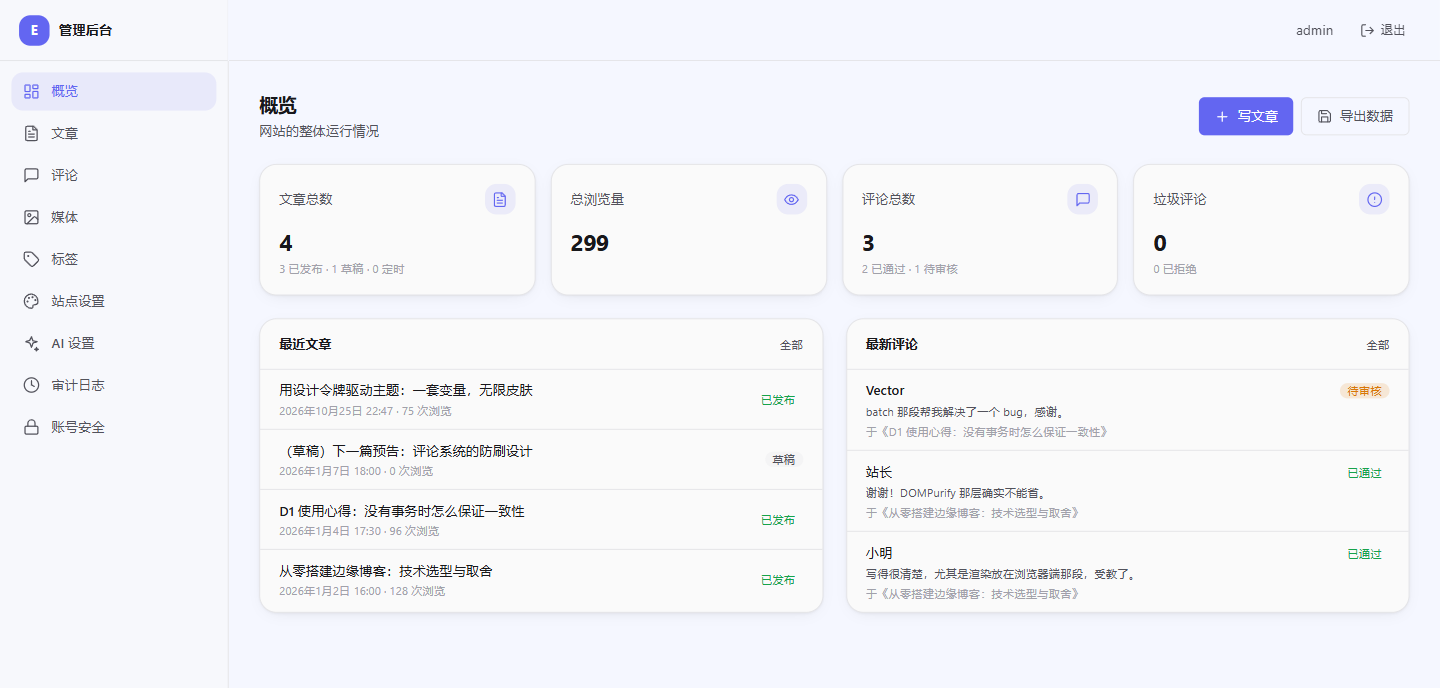
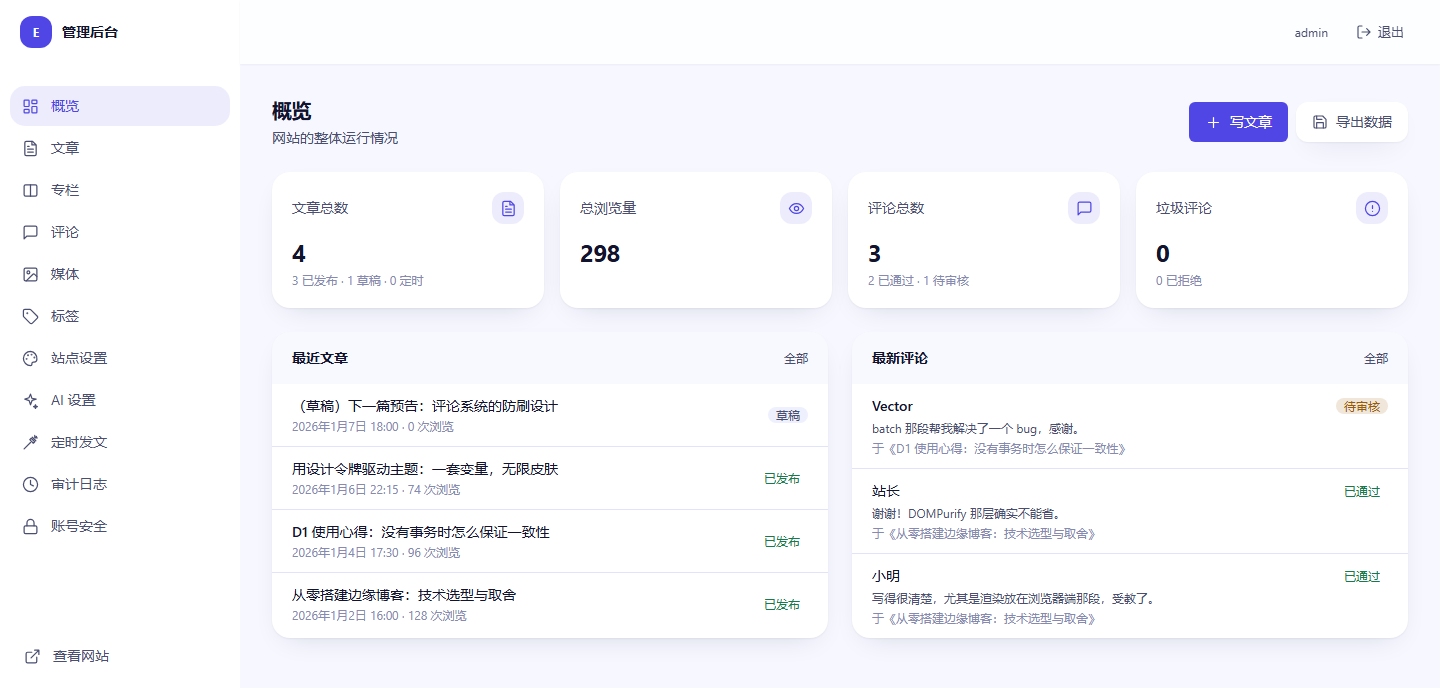
docs: 重写部署文档为一键部署，更新后台截图
- README 部署章节改为 Deploy to Cloudflare 按钮流程，保留命令行部署与升级说明
- 新增 scripts/db-bootstrap.mjs：空库自动建表并写入种子数据，已有库跳过；接入 npm run deploy
- package.json 增加 cloudflare 元数据（按钮展示、JWT_SECRET 填写说明）
- .dev.vars.example 只保留真正的 Secret，本地覆盖项改为注释，避免污染线上配置
- wrangler.toml 的 SITE_URL 默认留空，跟随访问域名，方便他人一键部署
- 后台截图更新：概览 / 定时发文 / 站点设置 / AI 设置（含请求超时）
- 默认站点描述由 Cloudflare Pages 更正为 Workers

diff --git a/shared/settings-defaults.ts b/shared/settings-defaults.ts
@@ -27,7 +27,7 @@ export const DEFAULT_SETTINGS: PublicSettings = {
   site: {
     name: 'Edge Blog',
     tagline: '在边缘写作，与世界相连',
-    description: '一个部署在 Cloudflare Pages 上的现代化动态博客，React + Hono + D1。',
+    description: '一个部署在 Cloudflare Workers 上的现代化动态博客，React + Hono + D1。',
     logo: { type: 'text', text: 'Edge', imageUrl: '' },
     aboutLogo: '',
     aboutText: '',

diff --git a/README.md b/README.md
@@ -7,10 +7,13 @@
 [![React](https://img.shields.io/badge/React-18-61DAFB?logo=react&logoColor=black)](https://react.dev/)
 [![TypeScript](https://img.shields.io/badge/TypeScript-5-3178C6?logo=typescript&logoColor=white)](https://www.typescriptlang.org/)
 
+[![Deploy to Cloudflare](https://deploy.workers.cloudflare.com/button)](https://deploy.workers.cloudflare.com/?url=https://github.com/nyoungo/EdgeBlog)
+
 - 在线演示：<https://www.068800.xyz>
+- 一键部署：点上面的按钮，Cloudflare 会自动创建 D1 / R2 / KV / Workers AI 并构建上线
 - 非静态生成：页面是 SPA，数据通过 Worker 提供的 API 实时读取
 - 无需服务器：D1 存数据，R2 存媒体，KV 做缓存与限流
-- 定时写作：按排期自动生成整篇文章与封面图，并保存为草稿或直接发布
+- 定时发文：按排期自动生成整篇文章与封面图，并保存为草稿或直接发布
 
 ```
 React + TypeScript + Vite  ·  React Router  ·  TailwindCSS + CSS 变量
@@ -26,13 +29,17 @@ JWT + HttpOnly Cookie      ·  PBKDF2-SHA256        ·  DOMPurify
 | :---: | :---: | :---: |
 | [![首页](docs/screenshots/home.jpg)](docs/screenshots/home.jpg) | [![通栏 Hero](docs/screenshots/home-hero-fullwidth.jpg)](docs/screenshots/home-hero-fullwidth.jpg) | [![全屏 Hero](docs/screenshots/home-hero-fullscreen.jpg)](docs/screenshots/home-hero-fullscreen.jpg) |
 
-> 同一套代码的三种排版：首页模块、Hero 宽度与背景、卡片样式均在后台「外观设置」中调整。
+> 同一套代码的三种排版：首页模块、Hero 宽度与背景、卡片样式均在后台「站点设置」中调整。
 
 ### 后台
 
-| 概览 | 站点设置 | AI 设置 |
-| :---: | :---: | :---: |
-| [![后台概览](docs/screenshots/admin-dashboard.png)](docs/screenshots/admin-dashboard.png) | [![站点设置](docs/screenshots/admin-appearance.png)](docs/screenshots/admin-appearance.png) | [![AI 设置](docs/screenshots/admin-ai.png)](docs/screenshots/admin-ai.png) |
+| 概览 | 定时发文 |
+| :---: | :---: |
+| [![后台概览](docs/screenshots/admin-dashboard.png)](docs/screenshots/admin-dashboard.png) | [![定时发文](docs/screenshots/admin-automation.png)](docs/screenshots/admin-automation.png) |
+
+| 站点设置 | AI 设置 |
+| :---: | :---: |
+| [![站点设置](docs/screenshots/admin-appearance.png)](docs/screenshots/admin-appearance.png) | [![AI 设置](docs/screenshots/admin-ai.png)](docs/screenshots/admin-ai.png) |
 
 ## 功能特性
 
@@ -53,13 +60,13 @@ JWT + HttpOnly Cookie      ·  PBKDF2-SHA256        ·  DOMPurify
 - 本地草稿自动恢复，避免误关页面丢内容
 - 内置 Cloudflare Workers AI（默认，无需 API Key），也可接入 OpenAI / DeepSeek / 任意 OpenAI 兼容服务，一键生成摘要、正文或使用后台浮动 AI 助手
 
-### 定时写作
+### 定时发文
 
-- 在后台「定时写作」页创建任务：填写生成提示词、目标位置（博客或某个专栏）与排期
+- 在后台「定时发文」页创建任务：填写生成提示词、目标位置（博客或某个专栏）与排期
 - 每个任务可选「保存为草稿」或「直接发布上线」：前者生成后等你审核，后者到点即在前台可见
 - 排期支持「仅一次 / 每天 / 每周 / 每月」+ 执行时刻（北京时间），可选首次执行日期与结束日期
-- Worker 的 Cron Trigger 每 5 分钟唤醒一次，到期任务自动生成文章与封面图
-- 封面可选「AI 生成 / AI 联网找图 / 指定图片 / 不设封面」:AI 生成与 AI 找图都会把图片存入 R2;「指定图片」支持媒体库图片或图片直链,外链在执行时下载入库(失败则保留原链接)
+- Worker 的 Cron Trigger 每 5 分钟唤醒一次，到期任务先抓取资料，再流式写完整篇正文，最后生成封面
+- 封面可选「AI 生成 / AI 联网找图 / 指定图片 / 不设封面」：前两种会把图片存入 R2；「指定图片」支持媒体库图片或图片直链，外链在执行时下载入库（失败则保留原链接）
 - 任务列表展示下次运行时间、上次结果与最近运行记录，可随时启用 / 停用或立即手动执行一次
 
 ### 站点定制
@@ -90,154 +97,93 @@ JWT + HttpOnly Cookie      ·  PBKDF2-SHA256        ·  DOMPurify
 
 ## 部署到 Cloudflare Workers
 
-以下流程全部在浏览器中完成，不需要在本地安装 Node.js，也不需要执行构建命令。
+本项目部署为 **Worker**（而非 Pages）：定时发文依赖 Worker 的 **Cron Trigger** 按固定频率唤醒，Pages 不支持定时触发。Worker 同时通过 `[assets]` 提供 `dist/` 里的静态资源，`run_worker_first` 让所有请求先经过 Worker。
 
-> 本项目部署为 **Worker**（而非 Pages）：定时写作依赖 Worker 的 **Cron Trigger** 按固定频率唤醒，Pages 不支持定时触发。
-> Worker 同时通过 `[assets]` 提供 `dist/` 里的静态资源，`run_worker_first` 让所有请求先经过 Worker。
+### 一键部署
 
-### 1. Fork 仓库
+[![Deploy to Cloudflare](https://deploy.workers.cloudflare.com/button)](https://deploy.workers.cloudflare.com/?url=https://github.com/nyoungo/EdgeBlog)
 
-打开本仓库，点击右上角 **Fork**，得到自己的副本。后续所有修改都提交到你的 fork。
+点击按钮后：
 
-### 2. 创建 Cloudflare 资源
-
-登录 [Cloudflare Dashboard](https://dash.cloudflare.com/)，在 **Storage & Databases** 中创建以下资源：
-
-| 资源 | 名称示例 | 用途 | 需要记录 |
-| --- | --- | --- | --- |
-| D1 | `edge-blog` | 文章、评论、配置 | Database ID |
-| R2 | `edge-blog-media` | 图片与视频 | 存储桶名称 |
-| KV | `CACHE` | 配置缓存与限流 | Namespace ID |
-
-### 3. 修改 `wrangler.toml`
-
-在 GitHub 网页中打开 fork 里的 `wrangler.toml`，点击铅笔图标编辑：
-
-- `name` 改成你的 Worker 名称
-- `database_name` / `database_id` 换成第 2 步的 D1
-- KV 的 `id` 换成第 2 步的 Namespace ID
-- R2 的 `bucket_name` 换成你的存储桶名称
-- `SITE_URL` 改成 `https://<Worker 名称>.<子域>.workers.dev`（或你的自定义域名）
-- `ALLOWED_ORIGINS` 改成自己的域名；没有额外来源时留空即可
-
-绑定名 `DB`、`MEDIA`、`CACHE`、`AI`、`ASSETS` 不要修改，`compatibility_date` 与 `nodejs_compat` 保持原样。`name` 同时决定默认的 `<name>.<子域>.workers.dev` 地址，需要全局唯一。
-
-> `[ai] binding = "AI"` 让 Worker 直接调用 Workers AI（默认 AI 服务商，无需 API Key；定时写作的封面图也用它生成）。如果不需要 AI，可以删除这段绑定与 `[triggers]`，后台的 AI 与定时写作入口会自动隐藏。
-
-> `[triggers]` 中的 `crons = ["*/5 * * * *"]` 是 Worker 的定时轮询频率，与具体任务的执行时刻无关，通常不需要改。
-
-### 4. 初始化远程数据库
-
-新建的 D1 数据库是空的，必须先执行建表 SQL；否则业务接口都会返回 500。
-
-> **⚠ 要复制的是 SQL 文件的内容，不是文件名或路径。**
-> 如果把 `migrations/0001_init.sql` 这样的路径粘贴进 D1 Console，SQLite 会把它当成 SQL 解析，
-> 报 `near "migrations": syntax error at offset 0`。这不是 SQL 有问题，而是粘贴错了内容。
-
-#### 方式 A：执行合并脚本（推荐，一次粘贴）
-
-1. 打开 [`db/init.sql`](db/init.sql)，点击页面右上角的 **Raw**。
-2. 全选（Ctrl/Cmd + A）并复制**整个文件内容**，第一行应该以 `--` 注释开头。
-3. 回到 D1 数据库 → **Console**，把内容粘贴进 SQL 输入框，点击 **Execute**。
-4. 确认每条语句都执行成功、没有红色错误。
-
-`db/init.sql` 已按 `0001 → 0008 → seed` 的顺序合并好，**只适用于空库**。
-重复执行会在 `ALTER TABLE ... ADD COLUMN` 处报 `duplicate column name`。
-它由 `npm run db:bundle` 从下面的原始文件生成，CI 会校验两者是否一致。
-
-#### 方式 B：逐个文件执行
-
-对下表中每个文件重复「打开 → Raw → 复制全部内容 → 粘贴到 Console → Execute」，**顺序不能变**：
-
-| 顺序 | 文件 | 作用 |
-| --- | --- | --- |
-| 1 | [`migrations/0001_init.sql`](migrations/0001_init.sql) | 用户、文章、标签、评论、设置、媒体、登录记录 |
-| 2 | [`migrations/0002_fts.sql`](migrations/0002_fts.sql) | FTS5 全文搜索表与同步触发器 |
-| 3 | [`migrations/0003_auth_hardening.sql`](migrations/0003_auth_hardening.sql) | 会话版本号、评论父级索引 |
-| 4 | [`migrations/0004_write_amplification.sql`](migrations/0004_write_amplification.sql) | 触发器改写、登录记录索引 |
-| 5 | [`migrations/0005_audit_and_soft_delete.sql`](migrations/0005_audit_and_soft_delete.sql) | 审计日志、文章软删除 |
-| 6 | [`migrations/0006_media_thumbnail.sql`](migrations/0006_media_thumbnail.sql) | 视频封面字段 |
-| 7 | [`migrations/0007_columns.sql`](migrations/0007_columns.sql) | 专栏表、文章归属字段 |
-| 8 | [`migrations/0008_automation.sql`](migrations/0008_automation.sql) | 定时写作任务与运行记录 |
-| 9 | [`migrations/0009_automation_cover_agent.sql`](migrations/0009_automation_cover_agent.sql) | 定时写作封面模式扩展(agent) |
-| 10 | [`seed/seed.sql`](seed/seed.sql) | 默认管理员、示例文章与默认配置 |
-
-#### 报错了怎么办
-
-| 报错 | 原因 | 处理 |
-| --- | --- | --- |
-| `near "migrations": syntax error at offset 0` | 粘贴的是文件路径 | 改为粘贴文件内容 |
-| `duplicate column name: token_version` / `deleted_at` / `thumbnail_url` / `column_id` | 该列已存在，库不是空的 | 跳过这条 `ALTER TABLE`，继续执行其余语句 |
-| `not authorized: SQLITE_AUTH` | 脚本里有 D1 不允许的 PRAGMA | 使用本仓库当前版本（已移除 `PRAGMA foreign_keys`） |
-| 页面 500，或 `/api/health` 返回 `data.db` 为 `uninitialized` | 迁移没有执行完 | 按上表顺序补齐，或执行 `db/init.sql` |
-| `no such table` / `no such column` | 库结构与代码版本不一致 | 用 `db/init.sql` 初始化，或检查是否漏了某个迁移 |
-
-如果库已被写坏、又没有任何需要保留的数据，最省事的做法是删除这个 D1 数据库，重新创建后把新的
-`database_id` 填进 `wrangler.toml`，再执行一次初始化。
-
-#### 命令行方式（可选）
-
-本地装有 Node.js 时，可以让 wrangler 直接读取文件，完全避开复制粘贴：
-
-```bash
-npx wrangler login
-npm run db:init          # 远程：执行 db/init.sql
-npm run db:init:local    # 本地：执行 db/init.sql
-```
-
-已有数据、只想补跑某个迁移时，也可以单独执行：
-
-```bash
-npx wrangler d1 execute edge-blog --remote --file=./migrations/0006_media_thumbnail.sql
-```
-
-### 5. 创建 Worker
-
-**Workers & Pages → Create → Workers → Import a repository**（或先创建 Worker 再在 **Settings → Builds** 里连接仓库），选择你 fork 的仓库与 `main` 分支，然后填写：
+1. 授权 GitHub。Cloudflare 会把仓库克隆到**你自己的账号**下，得到一个可以继续开发的副本。
+2. 确认 Worker 名称与资源名，填写 `JWT_SECRET`。
+3. 点击 **Deploy**。Cloudflare 读取 `wrangler.toml`，自动创建同名 D1 / KV / R2 与 Workers AI 绑定并回填 ID，然后构建并部署。
 
 | 配置项 | 值 |
 | --- | --- |
-| Worker 名称 | 与 `wrangler.toml` 的 `name` 一致（不一致会构建失败） |
 | Build command | `npm run build` |
-| Deploy command | `npx wrangler deploy` |
-| Root directory | 留空 |
+| Deploy command | `npm run deploy` |
+| `JWT_SECRET` | 至少 32 字符的随机串，用 `openssl rand -base64 48` 生成；**必须替换示例值** |
 
-保存后 Cloudflare 会自动开始第一次构建和部署。**部署统一走 Workers Builds**：push 到 `main` 后由 Cloudflare 拉取代码、构建并部署，不需要在本仓库保存 Cloudflare API Token。
+`npm run deploy` 会先运行 `scripts/db-bootstrap.mjs`：
 
-仓库里的 GitHub Actions（`.github/workflows/ci.yml`）只做校验（SQL 打包一致性、lint、类型检查、测试、构建），不再负责部署，两条路径职责不重叠。
+- **空库**（还没有 `users` 表）→ 执行 `db/init.sql`，建表并写入默认配置与默认管理员；
+- **已有数据的库** → 只做检查，不写任何东西，重复部署不会覆盖内容。
 
-### 6. 设置密钥
+所以首次部署完成后就能直接使用，不需要再手工执行 SQL。
 
-Worker → **Settings → Variables and Secrets → Add**：
+#### 部署完成后
 
-| 变量 | 类型 | 值 |
+1. 打开 `https://<Worker 名称>.<子域>.workers.dev/admin`，用 `admin` / `admin12345` 登录。
+2. **立即修改密码**（后台「账号」页）。
+3. 站点名、标语、配色、导航等在「后台 → 站点设置」里改；示例文章与默认数据可以直接删掉。
+4. 需要自动写文时，在「后台 → 定时发文」创建任务。Cron 随 Worker 一起部署，可在 Worker → **Settings → Triggers** 看到 `*/5 * * * *`。
+
+#### 绑定自定义域名（可选）
+
+默认域名 `https://<Worker 名称>.<子域>.workers.dev` 功能完整。要绑定自己的域名，该域名必须是**当前 Cloudflare 账户下的 active zone**（在注册商处把 NS 指向 Cloudflare），然后在 Worker → **Settings → Domains & Routes → Add → Custom Domain** 添加。
+
+> Workers 的 Custom Domain 不支持外部 DNS 的 CNAME 接入（这点与 Pages 不同）。域名托管在别处又不想迁入 Cloudflare 时，继续用 `workers.dev` 域名即可；媒体以相对路径 `/media/<key>` 保存，换域名不用迁移数据。
+
+`SITE_URL` 默认留空，canonical / RSS / sitemap / OG 会自动跟随访问域名；想固定成某个地址时，把它填进 `wrangler.toml` 的 `[vars]` 再部署一次。
+
+#### 常见问题
+
+| 现象 | 原因 | 处理 |
 | --- | --- | --- |
-| `JWT_SECRET` | Secret | 至少 32 字符的随机字符串，可用密码管理器生成 |
+| 页面能打开但接口 500，提示 `JWT_SECRET` 未配置或长度不足 | Secret 还是示例值，或少于 32 字符 | 在 Worker → **Settings → Variables and Secrets** 重设，或执行 `npx wrangler secret put JWT_SECRET` |
+| `no such table` / 后台一片空白 | 数据库初始化没有执行 | 查看构建日志里 `db-bootstrap` 是否通过；也可手动执行 `npm run db:bootstrap` |
+| 手动执行 `npm run db:init` 报 `duplicate column name` | `db/init.sql` 只用于空库 | 已有数据的库不要再执行，只补跑缺少的迁移文件 |
+| 添加 Custom Domain 失败 | 域名不在当前 Cloudflare 账户下 | 先把域名 NS 迁入 Cloudflare，或继续使用 `workers.dev` 域名 |
+| 定时任务没有按点执行 | Cron 只在线上生效 | 线上无需操作；本地测试用 `npx wrangler dev --test-scheduled` 后访问 `/__scheduled` |
 
-填写后点击 **Encrypt** 保存。
+### 手动部署（可选）
 
-> 部署用的凭据由 Workers Builds 在连接仓库时自动创建，无需手动配置；`JWT_SECRET` 通过 Worker 的 Secret 设置，两处互不影响。
+不想用按钮、或想在自己电脑上部署时：
 
-其余变量（`ENVIRONMENT`、`SITE_URL`、`SESSION_COOKIE`、`ALLOWED_ORIGINS` 等）已经写在 `wrangler.toml` 的 `[vars]` 中，修改文件即可；`JWT_SECRET` 必须通过 Secret 设置，不能写进仓库。
+```bash
+git clone https://github.com/nyoungo/EdgeBlog.git
+cd EdgeBlog
+npm install
+npx wrangler login
 
-### 7. 部署
+# 创建资源（名字可自定义，创建后把 ID 填回 wrangler.toml）
+npx wrangler d1 create edge-blog
+npx wrangler kv namespace create CACHE
+npx wrangler r2 bucket create edge-blog-media
 
-- **首次部署**：连接仓库后自动触发。
-- **后续部署**：每次 push 到 `main` 自动构建并部署。
-- **构建命令**：`npm run build`
-- **部署命令**：`npx wrangler deploy`（本地手动部署等价于 `npm run deploy`）
+# 设置登录密钥
+npx wrangler secret put JWT_SECRET
 
-构建完成后访问 `https://<Worker 名称>.<子域>.workers.dev`。若构建成功但页面报 500，优先检查 `JWT_SECRET` 是否已配置、D1 迁移是否执行、绑定名是否正确。
+# 构建 + 首次初始化数据库 + 部署
+npm run deploy
+```
 
-> Cron Trigger 会随 Worker 一起部署，无需额外配置；在 Worker → **Settings → Triggers** 可以看到 `*/5 * * * *`。
+后续更新：`git pull && npm run deploy`。
 
-### 8. 自定义域名（可选）与首次登录
+> 绑定名 `DB`、`MEDIA`、`CACHE`、`AI`、`ASSETS` 不要修改。`[ai] binding = "AI"` 让 Worker 直接调用 Workers AI（默认 AI 服务商，无需 API Key）；不需要 AI 时可以删掉这段绑定与 `[triggers]`，后台的 AI 与定时发文入口会自动隐藏。`[triggers]` 的 `crons = ["*/5 * * * *"]` 只是轮询频率，与具体任务的执行时刻无关。
 
-默认已可用 Worker 自带域名 `https://<Worker 名称>.<子域>.workers.dev`。要绑定自己的域名，需先让该域名成为**当前 Cloudflare 账户下的 active zone**（即在注册商处把 NS 指向 Cloudflare，完成接入），再在 Worker → **Settings → Domains & Routes → Add → Custom Domain** 添加域名，最后把 `wrangler.toml` 的 `SITE_URL` 改成该域名并提交一次部署。
+也可以完全不用命令行：在 D1 的 **Console** 里粘贴 [`db/init.sql`](db/init.sql) 的全文（只适用于空库），再在 Worker 的 **Settings → Variables and Secrets** 里添加 `JWT_SECRET`。
 
-> **注意**：Workers 的 Custom Domain 要求域名是账户内的 zone，**不支持外部 DNS 的 CNAME 接入**，这点与 Pages 不同。若域名托管在其他服务商（域名无法/不便迁入 Cloudflare），继续使用 `workers.dev` 域名即可，功能完全不受影响。媒体以相对路径 `/media/<key>` 保存，换域名无需迁移数据。
+### 升级已有站点
 
-打开 `/admin`，使用下方默认账号登录并立即修改密码。
+空库与新库都由 `db-bootstrap` 处理。**已经有数据**的站点升级时，新增的迁移不会自动执行，需要逐个应用新的迁移文件：
+
+```bash
+npx wrangler d1 execute DB --remote --file=./migrations/<新迁移>.sql
+```
+
+迁移文件只保证在对应的旧版本上执行一次，重复执行会报列已存在之类的错误；执行前先备份 D1。
 
 ### 默认账号
 
@@ -245,7 +191,7 @@ Worker → **Settings → Variables and Secrets → Add**：
 | --- | --- | --- |
 | `admin` | `admin12345` | admin |
 
-> **部署后请立即修改密码**，可在登录后进入 `/admin` 修改，或使用 `npm run hash-password -- "新密码"` 生成哈希后更新 `users` 表。
+> 这是 `seed/seed.sql` 写入的初始账号，**部署后请立即修改密码**，也可以用 `npm run hash-password -- "新密码"` 生成哈希后更新 `users` 表。
 
 ## 环境变量
 
@@ -253,7 +199,7 @@ Worker → **Settings → Variables and Secrets → Add**：
 | --- | --- | --- |
 | `JWT_SECRET` | Dashboard Secret | 签署 JWT 的密钥，≥ 32 字符；缺失或过短时 API 直接返回 500 |
 | `ENVIRONMENT` | `wrangler.toml` | `production` / `development`；开发环境 Cookie 不加 `Secure`，并允许 http 内网 AI 地址 |
-| `SITE_URL` | `wrangler.toml` | 站点对外地址，用于 canonical / RSS / sitemap / OG |
+| `SITE_URL` | `wrangler.toml` | 站点对外地址，用于 canonical / RSS / sitemap / OG；留空则自动跟随当前访问域名 |
 | `MEDIA_PUBLIC_BASE` | `wrangler.toml` | 媒体公开前缀，默认留空（相对路径自动跟随访问域名）；仅当 R2 绑定了独立域名时设置 |
 | `SESSION_COOKIE` | `wrangler.toml` | 会话 Cookie 名称，默认 `eb_session` |
 | `ALLOWED_ORIGINS` | `wrangler.toml` | 额外允许的跨域来源，逗号分隔；同源始终允许，`*` 会被忽略 |
@@ -266,19 +212,19 @@ Worker → **Settings → Variables and Secrets → Add**：
 
 ```bash
 npm install
-cp .dev.vars.example .dev.vars   # 填入 JWT_SECRET
+cp .dev.vars.example .dev.vars   # 至少把 JWT_SECRET 换成 ≥ 32 字符的随机串
 npm run db:init:local            # 首次：建表 + 种子数据（见下方说明）
 
 npm run dev:worker  # 构建前端并启动 Worker，http://127.0.0.1:8788
 ```
 
-> `dev:worker` 通过 `wrangler dev` 运行完整 Worker，**会加载 D1 / R2 / KV / AI 绑定**，API、定时写作与 AI 接口都可用。
+> `dev:worker` 通过 `wrangler dev` 运行完整 Worker，**会加载 D1 / R2 / KV / AI 绑定**，API、定时发文与 AI 接口都可用。
 > 也可以用 `npx wrangler dev` 触发定时器测试：`npx wrangler dev --test-scheduled` 后访问 `/__scheduled`。
 
 > `db:init:local` 只适用于全新的本地数据库；已经有本地数据时不要重复执行，
 > 改用 `npm run db:migrate:local` 补齐迁移，或用 `npm run db:seed:local` 单独写入种子数据。
 
-只调试前端时，另开一个终端运行 `npm run dev`，Vite 会把 `/api` 代理到 `8788`。
+只调试前端时，另开一个终端运行 `npm run dev`（Vite，`http://localhost:5173`），它会代理 `/api` 到 `8788`。这时需要在 `.dev.vars` 里取消注释 `ENVIRONMENT=development`、`SITE_URL` 与 `ALLOWED_ORIGINS` 三行：跨域来源被放行，Cookie 也不会因为 http 下的 `Secure` 标记而失效。
 
 ## 可用脚本
 
@@ -290,10 +236,11 @@ npm run dev:worker  # 构建前端并启动 Worker，http://127.0.0.1:8788
 | `npm run typecheck` | 前后端两套 tsconfig 类型检查 |
 | `npm run lint` | ESLint（零警告） |
 | `npm test` | Vitest 单元测试 |
-| `npm run deploy` | 构建并部署到 Cloudflare Workers（`wrangler deploy`） |
+| `npm run deploy` | 构建 + 初始化空数据库 + 部署（`wrangler deploy`） |
+| `npm run db:bootstrap` | 部署前的数据库自举：空库执行 `db/init.sql`，已有数据的库只检查 |
 | `npm run db:bundle` | 把迁移与种子数据合并生成 `db/init.sql` |
 | `npm run db:init[:local]` | 用 `db/init.sql` 初始化全新数据库（远程 / 本地） |
-| `npm run db:migrate[:local]` | 逐个应用 D1 迁移（远程 / 本地） |
+| `npm run db:migrate[:local]` | 逐个应用 D1 迁移文件（远程 / 本地；仅空库，已有库请单独执行新迁移） |
 | `npm run db:seed[:local]` | 写入种子数据（远程 / 本地） |
 | `npm run db:reset:local` | 等同 `db:init:local`（不会删除已有本地库） |
 | `npm run hash-password -- "密码"` | 生成 PBKDF2 密码哈希 |
@@ -309,14 +256,15 @@ src/
   lib/                  API 客户端、Markdown 渲染、主题引擎、格式化
   styles/               tokens.css（设计令牌）+ globals.css
 shared/                 前后端共享类型、默认配置与排期计算
-migrations/             D1 迁移（建表、FTS5、审计、软删除、定时写作等）
+migrations/             D1 迁移（建表、FTS5、审计、软删除、定时发文等）
 db/init.sql             合并后的初始化 SQL（npm run db:bundle 生成）
 seed/                   示例文章、默认设置与管理员
-scripts/                密码哈希生成、SQL 合并脚本
+scripts/                密码哈希、SQL 合并、部署前数据库自举
 public/                 静态资源
 docs/screenshots/       README 界面截图
 index.html              SPA 外壳（首屏防闪烁脚本、SEO / 配置注入占位）
 wrangler.toml           Worker + 静态资源 + Cron Trigger + D1 / R2 / KV 绑定
+.dev.vars.example       本地开发与一键部署共用的 Secret 模板
 ```
 
 ## 定制与主题

diff --git a/AGENTS.md b/AGENTS.md
@@ -50,6 +50,31 @@ Domain 绑定到本 Worker（apex `068800.xyz` 302 跳 `www`），`wrangler.toml
 所需 token。`.github/workflows/ci.yml` 只保留校验（bundle/lint/typecheck/test/build），
 不再部署，避免同一版本被部署两次。
 
+### Deploy to Cloudflare 按钮把 `.dev.vars.example` 当作线上 Secret 清单
+
+按钮流程会读取仓库里的 `.dev.vars.example`（或 `.env.example`）让用户逐项填写 Secret。
+这个文件里只能放真正的 Secret：早期模板里的 `ENVIRONMENT=development`、
+`SITE_URL=http://localhost:8788`、`ALLOWED_ORIGINS=http://localhost:5173` 会被原样写成
+线上 Secret 并覆盖 `wrangler.toml` 的 `[vars]`，结果是线上以开发模式运行（Cookie 不带
+Secure）、canonical / RSS 指向 localhost。这些本地覆盖项现在保持注释，用户按需取消注释。
+
+`JWT_SECRET` 的示例值故意写成不足 32 字符：留着它部署会直接 500 并提示补密钥，
+比用一个「长度合法但公开」的占位值安全。
+
+### 一键部署的数据库自举看表结构，不要用 `d1 migrations apply`
+
+现网 D1 没有 `d1_migrations` 记录表（早期是手工执行 SQL 建的库），
+`wrangler d1 migrations apply` 会从 0001 重放，在 `ALTER TABLE ... ADD COLUMN`
+处报 `duplicate column name`。所以 `npm run deploy` 先跑 `scripts/db-bootstrap.mjs`：
+
+- 查不到 `users` 表 → 执行 `db/init.sql`（0001–0009 + seed），空库一次建好；
+- 已有库 → 直接跳过，绝不写任何数据；
+- 建完再查 `settings` 行数，为 0 时补跑幂等的 `seed/seed.sql`。
+
+迁移文件本身仍是「空库一次性执行」语义，升级老站点要逐个手跑新增的迁移。
+另外 Node 18.20+/20.12+ 在 Windows 上 `spawn('wrangler.cmd')` 会抛 `EINVAL`，
+脚本统一用 `process.execPath` 执行 `node_modules/wrangler/bin/wrangler.js`。
+
 ### Workers AI 推理模型的 `reasoning_content` 与正文共享 `max_tokens`
 
 `@cf/zai-org/glm-4.7-flash`、`@cf/openai/gpt-oss-120b` 这类推理模型会先输出
